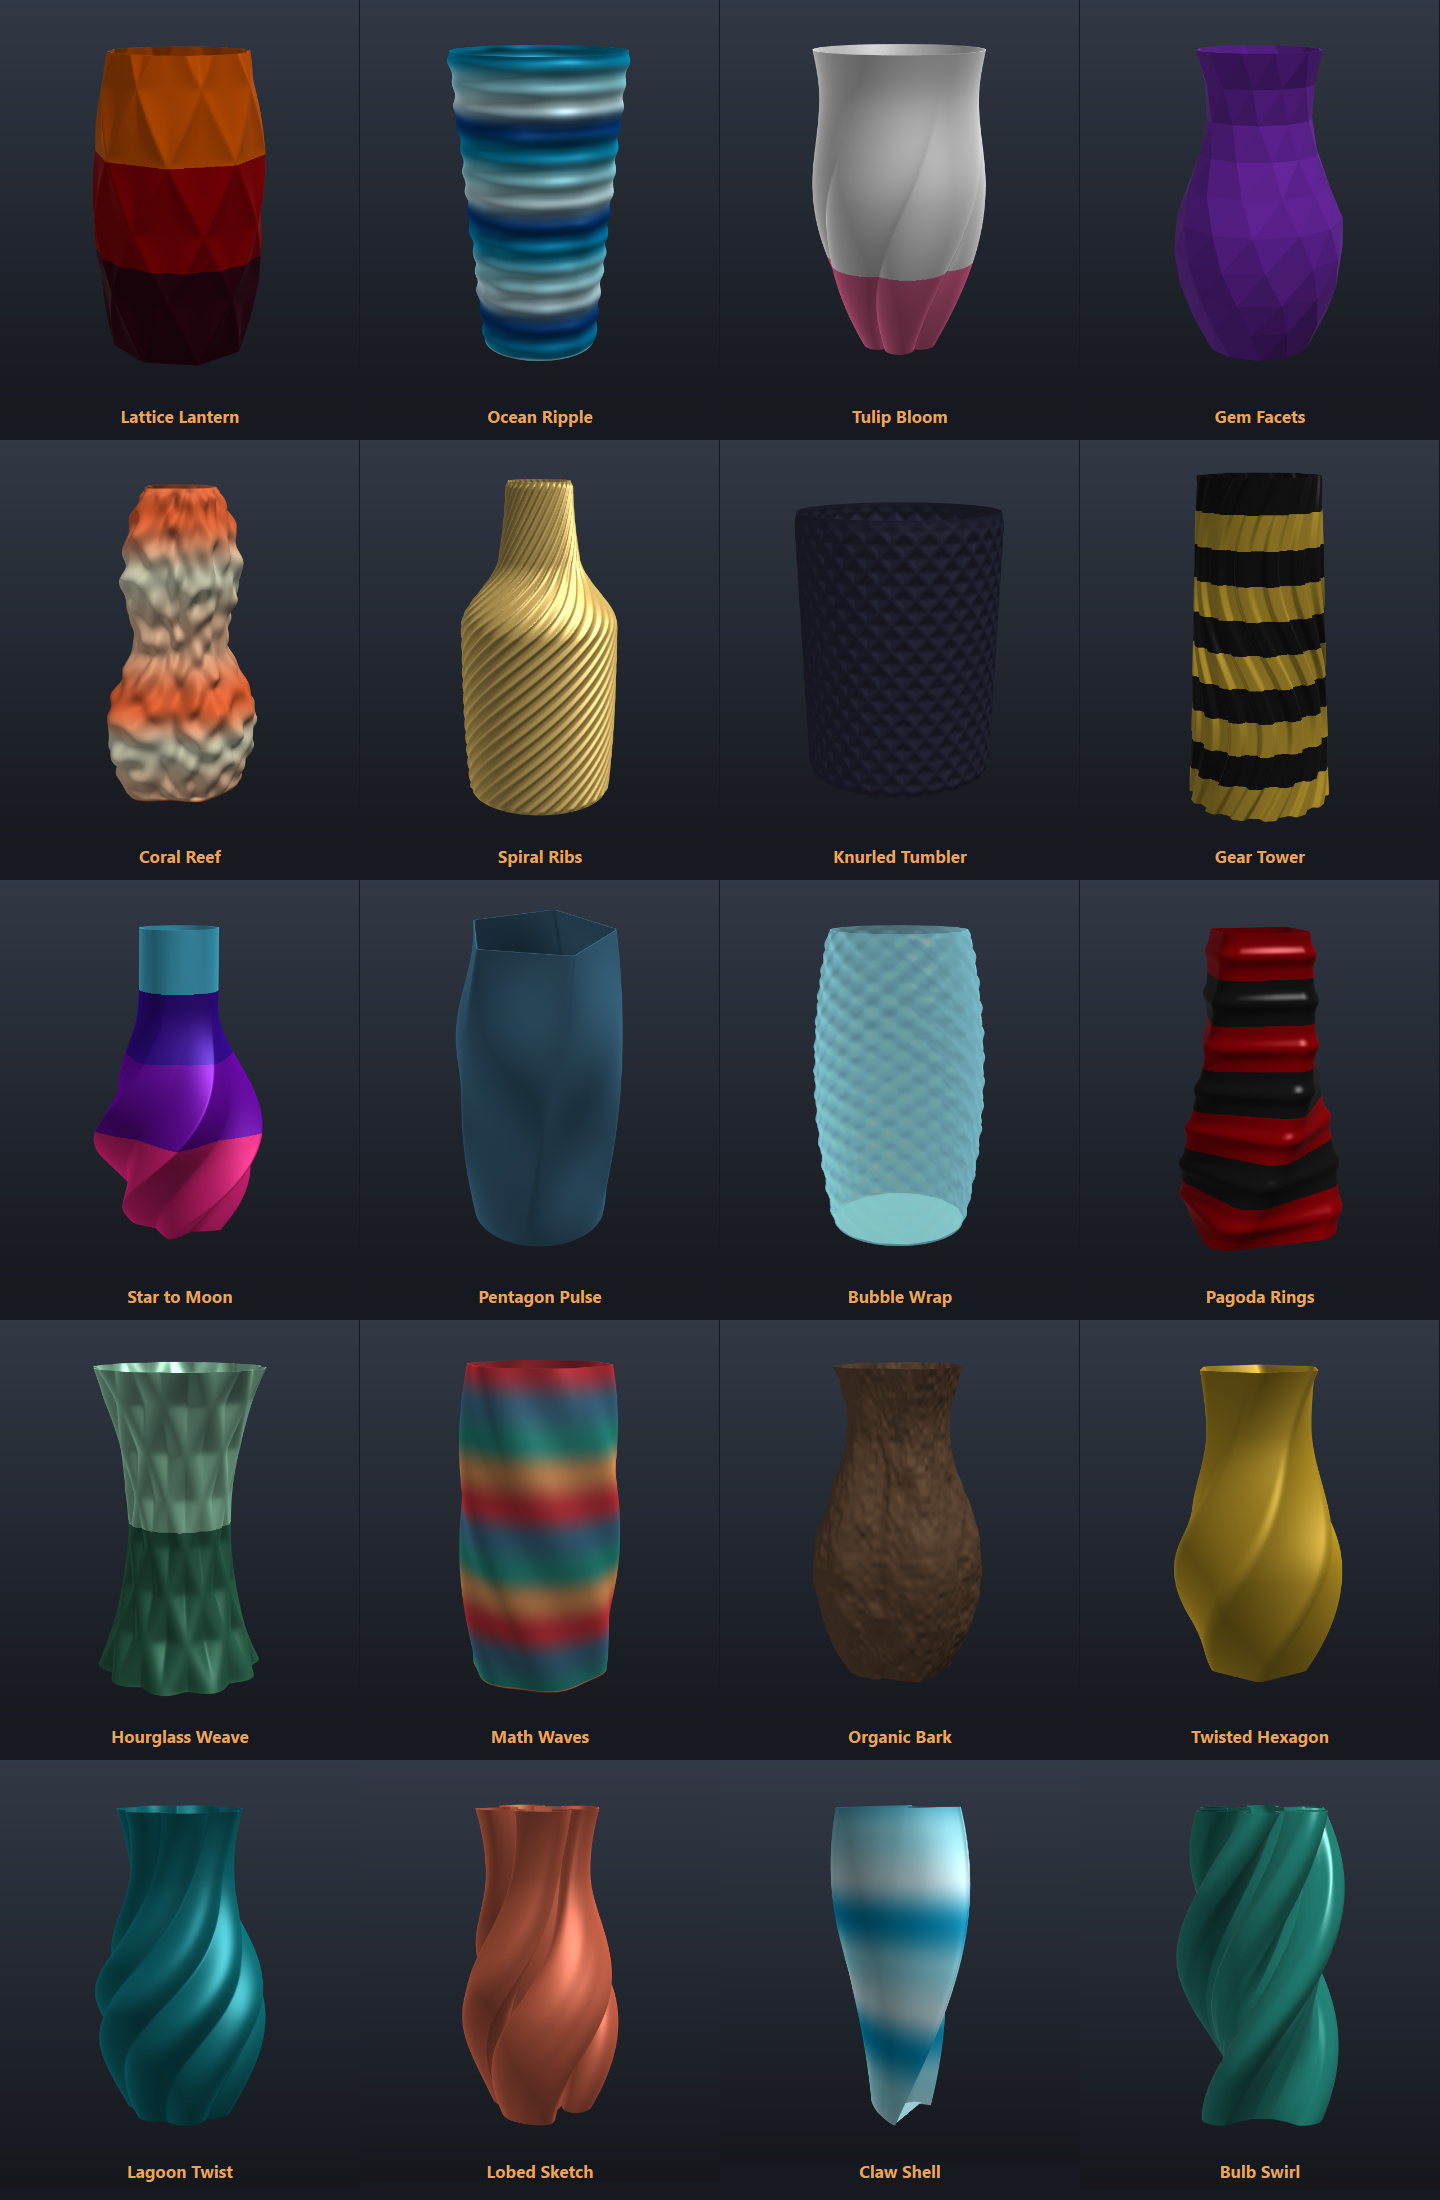
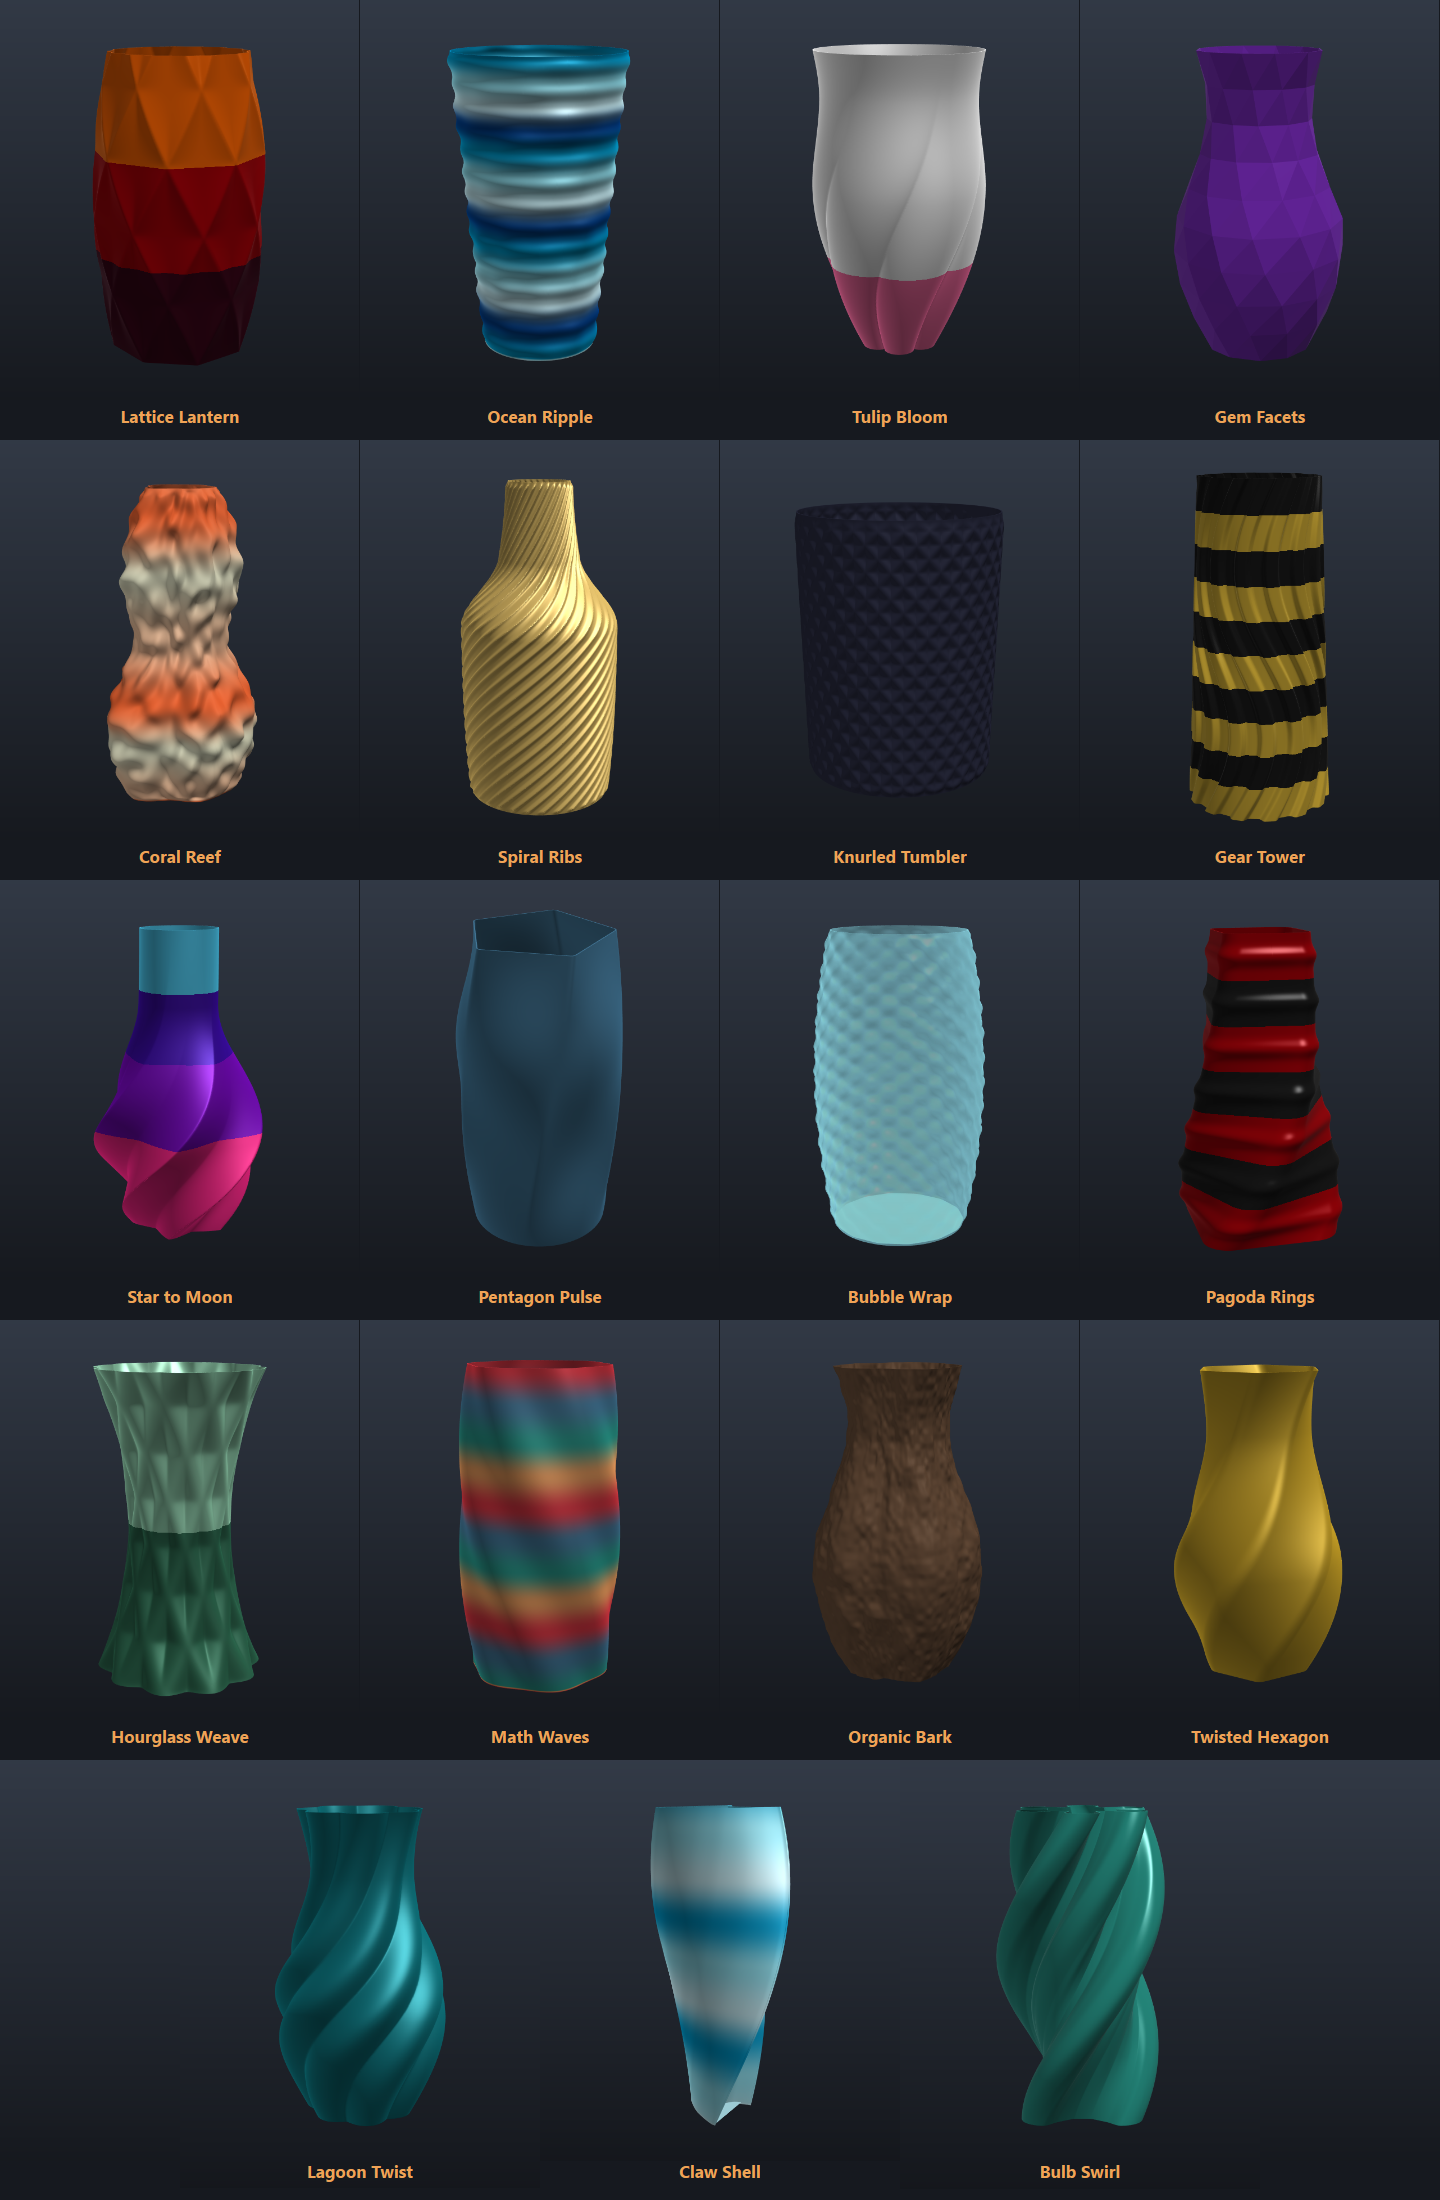
Drop the lobed sketch; the claw sketch is now Claw
- The traced lobed sketch is gone from Start from, with the Lobed Sketch
  gallery design and its example.
- "Your claw sketch" is now "Claw" in Start from; Claw Shell still uses it.
- The gallery picture's last row is Lagoon Twist, Claw Shell and Bulb
  Swirl; the README shows Claw Shell in the editor, and Help and the README
  no longer mention the sketches.
- Tests use the claw where they used the lobed sketch.

Changed region(s): [[0.0625, 0.8036, 0.9375, 0.9891]]

diff --git a/vaseinator/sections.py b/vaseinator/sections.py
@@ -163,18 +163,8 @@ def bulbs(n: int, neck: float = 0.42, bulb: float = 0.3):
     return [[round(x, 4), round(y, 4), c] for x, y, c in chain]
 
 
-# traced from the sketches the design was first asked for
-SKETCH_LOBES = [
-    [-0.234, 0.867, 0], [-0.412, 0.766, 0], [-0.470, 0.652, 0], [-0.449, 0.488, 0], [-0.330, 0.351, 0],
-    [-0.247, 0.319, 1], [-0.338, 0.196, 1], [-0.494, 0.317, 0], [-0.664, 0.308, 0],
-    [-0.778, 0.051, 0], [-0.788, -0.202, 0], [-0.678, -0.337, 0], [-0.480, -0.418, 1], [-0.359, -0.318, 0],
-    [-0.300, -0.187, 1], [-0.205, -0.392, 1], [-0.357, -0.550, 0], [-0.316, -0.666, 0], [-0.132, -0.793, 0],
-    [0.087, -0.823, 0], [0.257, -0.801, 0], [0.476, -0.710, 0], [0.555, -0.584, 0], [0.478, -0.338, 0],
-    [0.354, -0.308, 1], [0.387, -0.154, 0], [0.365, 0.076, 1], [0.510, -0.060, 0], [0.694, -0.047, 0],
-    [0.814, 0.119, 0], [0.803, 0.331, 0], [0.694, 0.493, 0], [0.483, 0.584, 0], [0.321, 0.521, 0],
-    [0.258, 0.323, 1], [0.148, 0.404, 0], [0.050, 0.421, 1], [0.093, 0.577, 0], [0.066, 0.727, 0],
-    [-0.098, 0.862, 0]]
-SKETCH_CLAW = [
+# a claw, traced from a sketch
+CLAW = [
     [-0.424, 0.594, 1], [-0.437, 0.500, 0], [-0.428, 0.258, 0], [-0.351, 0.017, 0], [-0.239, -0.175, 0],
     [-0.152, -0.296, 0], [0.041, -0.496, 0], [0.227, -0.631, 0], [0.414, -0.738, 0], [0.488, -0.757, 1],
     [0.348, -0.626, 0], [0.257, -0.499, 0], [0.233, -0.417, 0], [0.237, -0.280, 0], [0.288, -0.148, 0],
@@ -188,8 +178,7 @@ OUTLINES = [
                     [0.62, 0.38, False], [0.42, 0.12, True]], 5),
     ("Three bulbs", bulbs(3), 3),
     ("Six bulbs", bulbs(6, 0.5, 0.24), 6),
-    ("Your lobed sketch", [[x, y, bool(c)] for x, y, c in SKETCH_LOBES], 1),
-    ("Your claw sketch", [[x, y, bool(c)] for x, y, c in SKETCH_CLAW], 1),
+    ("Claw", [[x, y, bool(c)] for x, y, c in CLAW], 1),
     ("Teardrop", [[1.0, 0.0, True], [0.2, 0.55, False], [-0.6, 0.45, False], [-0.85, 0.0, False],
                   [-0.6, -0.45, False], [0.2, -0.55, False]], 1),
     ("Heart", [[0.0, -0.9, True], [0.75, 0.0, False], [0.7, 0.6, False], [0.35, 0.75, False], [0.0, 0.45, True],

diff --git a/vaseinator/presets.py b/vaseinator/presets.py
@@ -101,11 +101,8 @@ GALLERY = [
     ("Organic Bark", "Your own function: rough bark from layered noise.",
      dict(shape1=PEBBLE, count1=3, depth1=0.2, twist=0, expression=dict(EXAMPLES)["Bark"],
           colour_style=ONE_COLOUR, color1="#6B4F3A", look=MATTE)),
-    ("Lobed Sketch", "A drawn cross-section: five lumpy lobes, each swelling past its neck, slowly turning.",
-     dict(**_profile(0, 104), **_drawn("Your lobed sketch"), twist=120, twist_style=EASE, colour_style=ONE_COLOUR,
-          color1="#E76F51", look=SILK)),
     ("Claw Shell", "A drawn crescent with no symmetry at all, turning as it rises.",
-     dict(**_profile(4, 100), **_drawn("Your claw sketch"), twist=90, twist_style=EVENLY, colour_style=GRADIENT,
+     dict(**_profile(4, 100), **_drawn("Claw"), twist=90, twist_style=EVENLY, colour_style=GRADIENT,
           colours_used=3, gradient_length=4.0, look=SILK, **palette("Glacier"))),
     ("Bulb Swirl", "Three drawn bulbs at the foot become six at the lip, swirling half a turn.",
      dict(**_profile(4, 100), **_drawn("Three bulbs"), **_drawn("Six bulbs", 2), twist=180, twist_style=EVENLY,

diff --git a/tests/test_app.py b/tests/test_app.py
@@ -229,10 +229,10 @@ def main():
     oed.finished.emit([[1, 0, False], [-1, 1, False], [-1, -1, False], [1, 1, False], [0.2, -1.2, False]])
     settle()
     check("an outline that crosses itself is reported, not built", "crosses itself" in win.info.toPlainText())
-    lobes = next(q for name, q, n in sections.OUTLINES if name == "Your lobed sketch")
-    win._use_outline(1, lobes, 1)
+    claw = next(q for name, q, n in sections.OUTLINES if name == "Claw")
+    win._use_outline(1, claw, 1)
     settle()
-    check("Start from: your lobed sketch builds, closed and printable", win.params.repeat1 == 1
+    check("Start from: the claw builds, closed and printable", win.params.repeat1 == 1
           and win.design.closed and win.design.worst <= win.params.max_overhang + 0.3 and oed.repeat == 1)
     pic = QImage(400, 300, QImage.Format_RGB32)
     pic.fill(QColor("white"))

diff --git a/vaseinator/app.py b/vaseinator/app.py
@@ -1671,7 +1671,7 @@ class MainWindow(QMainWindow):
             "a <b>sharp corner</b> (a diamond) or smooth again (a circle). Right-click a point, or hover and "
             "press Delete, to take it away.</li>"
             "<li><b>Repeat around</b>: draw one lobe and have it copied round the axis - the faint copies.</li>"
-            "<li><b>Start from</b>: ready-made outlines, the two sketches the editor was made from, or "
+            "<li><b>Start from</b>: ready-made outlines - a claw, bulbs, a heart - or "
             "<b>Trace a picture…</b> - a dark closed line, or a dark filled shape, on a light or see-through "
             "ground.</li>"
             "<li>Switching a built-in shape to Drawn starts from that shape - a five-petalled flower becomes one "

diff --git a/tests/test_vase.py b/tests/test_vase.py
@@ -50,7 +50,7 @@ def designs():
         ("bottle shoulder", plain(silhouette=[[0.0, 100.0], [0.5, 100.0], [0.55, 30.0], [1.0, 30.0]])),
         ("flared lip", plain(silhouette=[[0.0, 60.0], [0.9, 60.0], [1.0, 120.0]])),
         ("tiny", plain(height=12.0, silhouette=[[0.0, 8.0], [1.0, 8.0]])),
-        ("drawn claw, twisted, ribbed", plain(shape1=DRAWN, drawn1=sections.OUTLINES[5][1], repeat1=1, twist=200,
+        ("drawn claw, twisted, ribbed", plain(shape1=DRAWN, drawn1=sections.CLAW, repeat1=1, twist=200,
                                               rib_count=18, rib_depth=1.2)),
         ("drawn heart to five lobes", plain(shape1=DRAWN, drawn1=sections.OUTLINES[-1][1], repeat1=1, shape2=DRAWN,
                                             twist=60)),

diff --git a/tools/make_examples.py b/tools/make_examples.py
@@ -14,7 +14,7 @@ from vaseinator.params import save_design  # noqa: E402
 from vaseinator.presets import GALLERY, gallery_design  # noqa: E402
 from vaseinator.stl import write_stl  # noqa: E402
 
-STLS = ("Lagoon Twist", "Star to Moon", "Lattice Lantern", "Gem Facets", "Coral Reef", "Lobed Sketch")
+STLS = ("Lagoon Twist", "Star to Moon", "Lattice Lantern", "Gem Facets", "Coral Reef", "Claw Shell")
 
 
 def main():

diff --git a/README.md b/README.md
@@ -21,7 +21,7 @@ ready to slice.
 | **Overhangs: green is easy, red needs support** | **Watch it print, in real print time** |
 | ![Overhang check](docs/images/overhangs.png) | ![Print layout and animation](docs/images/print_layout.png) |
 | **Draw any cross-section, sharp corners and all** | **Draw one lobe, repeat it: three bulbs become six** |
-| ![The cross-section editor](docs/images/drawn_lobed_sketch.png) | ![Repeat around](docs/images/drawn_bulb_swirl.png) |
+| ![The cross-section editor](docs/images/drawn_claw_shell.png) | ![Repeat around](docs/images/drawn_bulb_swirl.png) |
 
 ## Features
 
@@ -58,7 +58,7 @@ ready to slice.
   print** builds it up in real print time (wide layers take longer).
 * **The sums**: size, base and opening, how much water it holds, filament in grams and metres, print
   time, steepest overhang, and the mesh – closed and watertight.
-* **Gallery** of twenty ready-made vases, **Surprise me** (a new random vase that still prints), and
+* **Gallery** of nineteen ready-made vases, **Surprise me** (a new random vase that still prints), and
   **undo / redo** of everything.
 * Exports a solid **STL**, or a **3MF** in the middle of the bed – one solid for a real spiral vase, each
   colour band its own part, set to its filament, for a fake one – as Lenticular Sign Maker and Maze Tube
@@ -116,7 +116,7 @@ is Surprise me, **Ctrl+Z / Ctrl+Y** undo and redo.
 (the outline is scaled so its furthest point touches it). Drag a point; double-click the line to add one,
 and double-click a point to switch it between smooth (a circle) and a sharp corner (a diamond);
 right-click a point to take it away. **Repeat around** copies what you draw round the axis – draw one lobe,
-get five. **Start from** has ready-made outlines, the two sketches the editor began with, and **Trace a
+get five. **Start from** has ready-made outlines – a claw, bulbs, a heart – and **Trace a
 picture…** (a dark closed line or filled shape on a light ground). Switching a built-in shape to Drawn
 starts from it: a five-petalled flower becomes one petal, repeated five times. Twist, the change into a
 second shape, the patterns and colour bands all work on a drawn outline; it turns red if it crosses itself.
